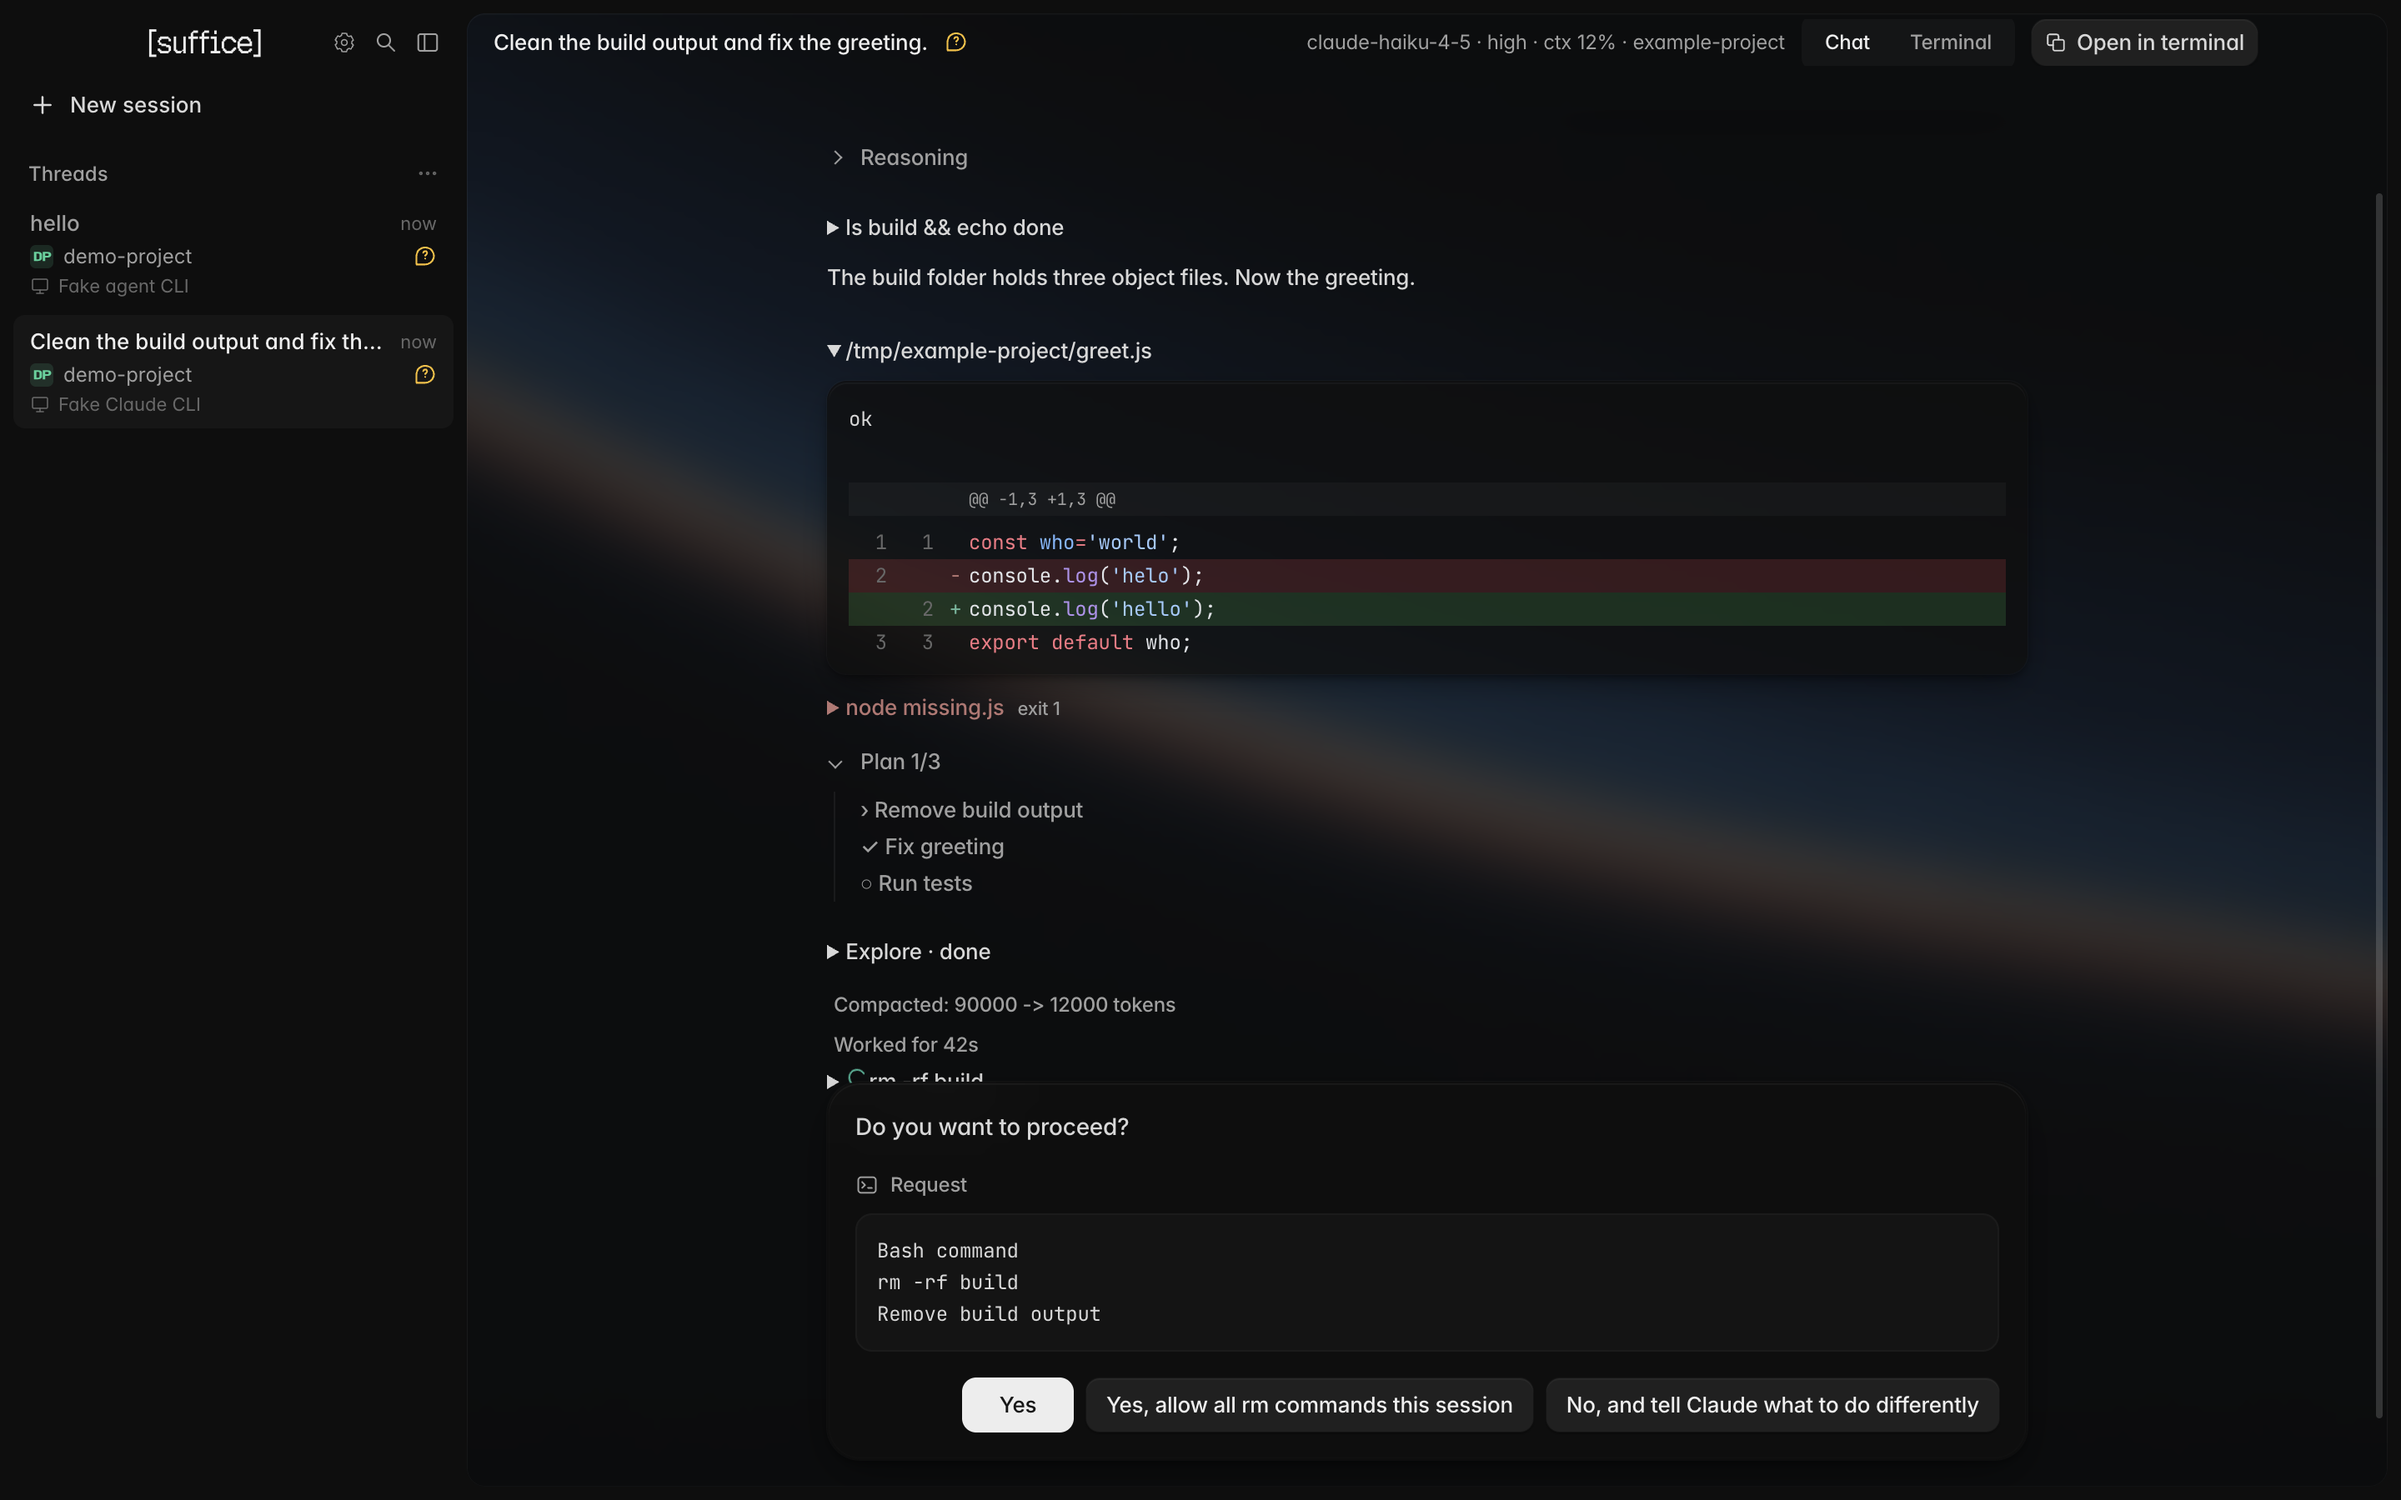
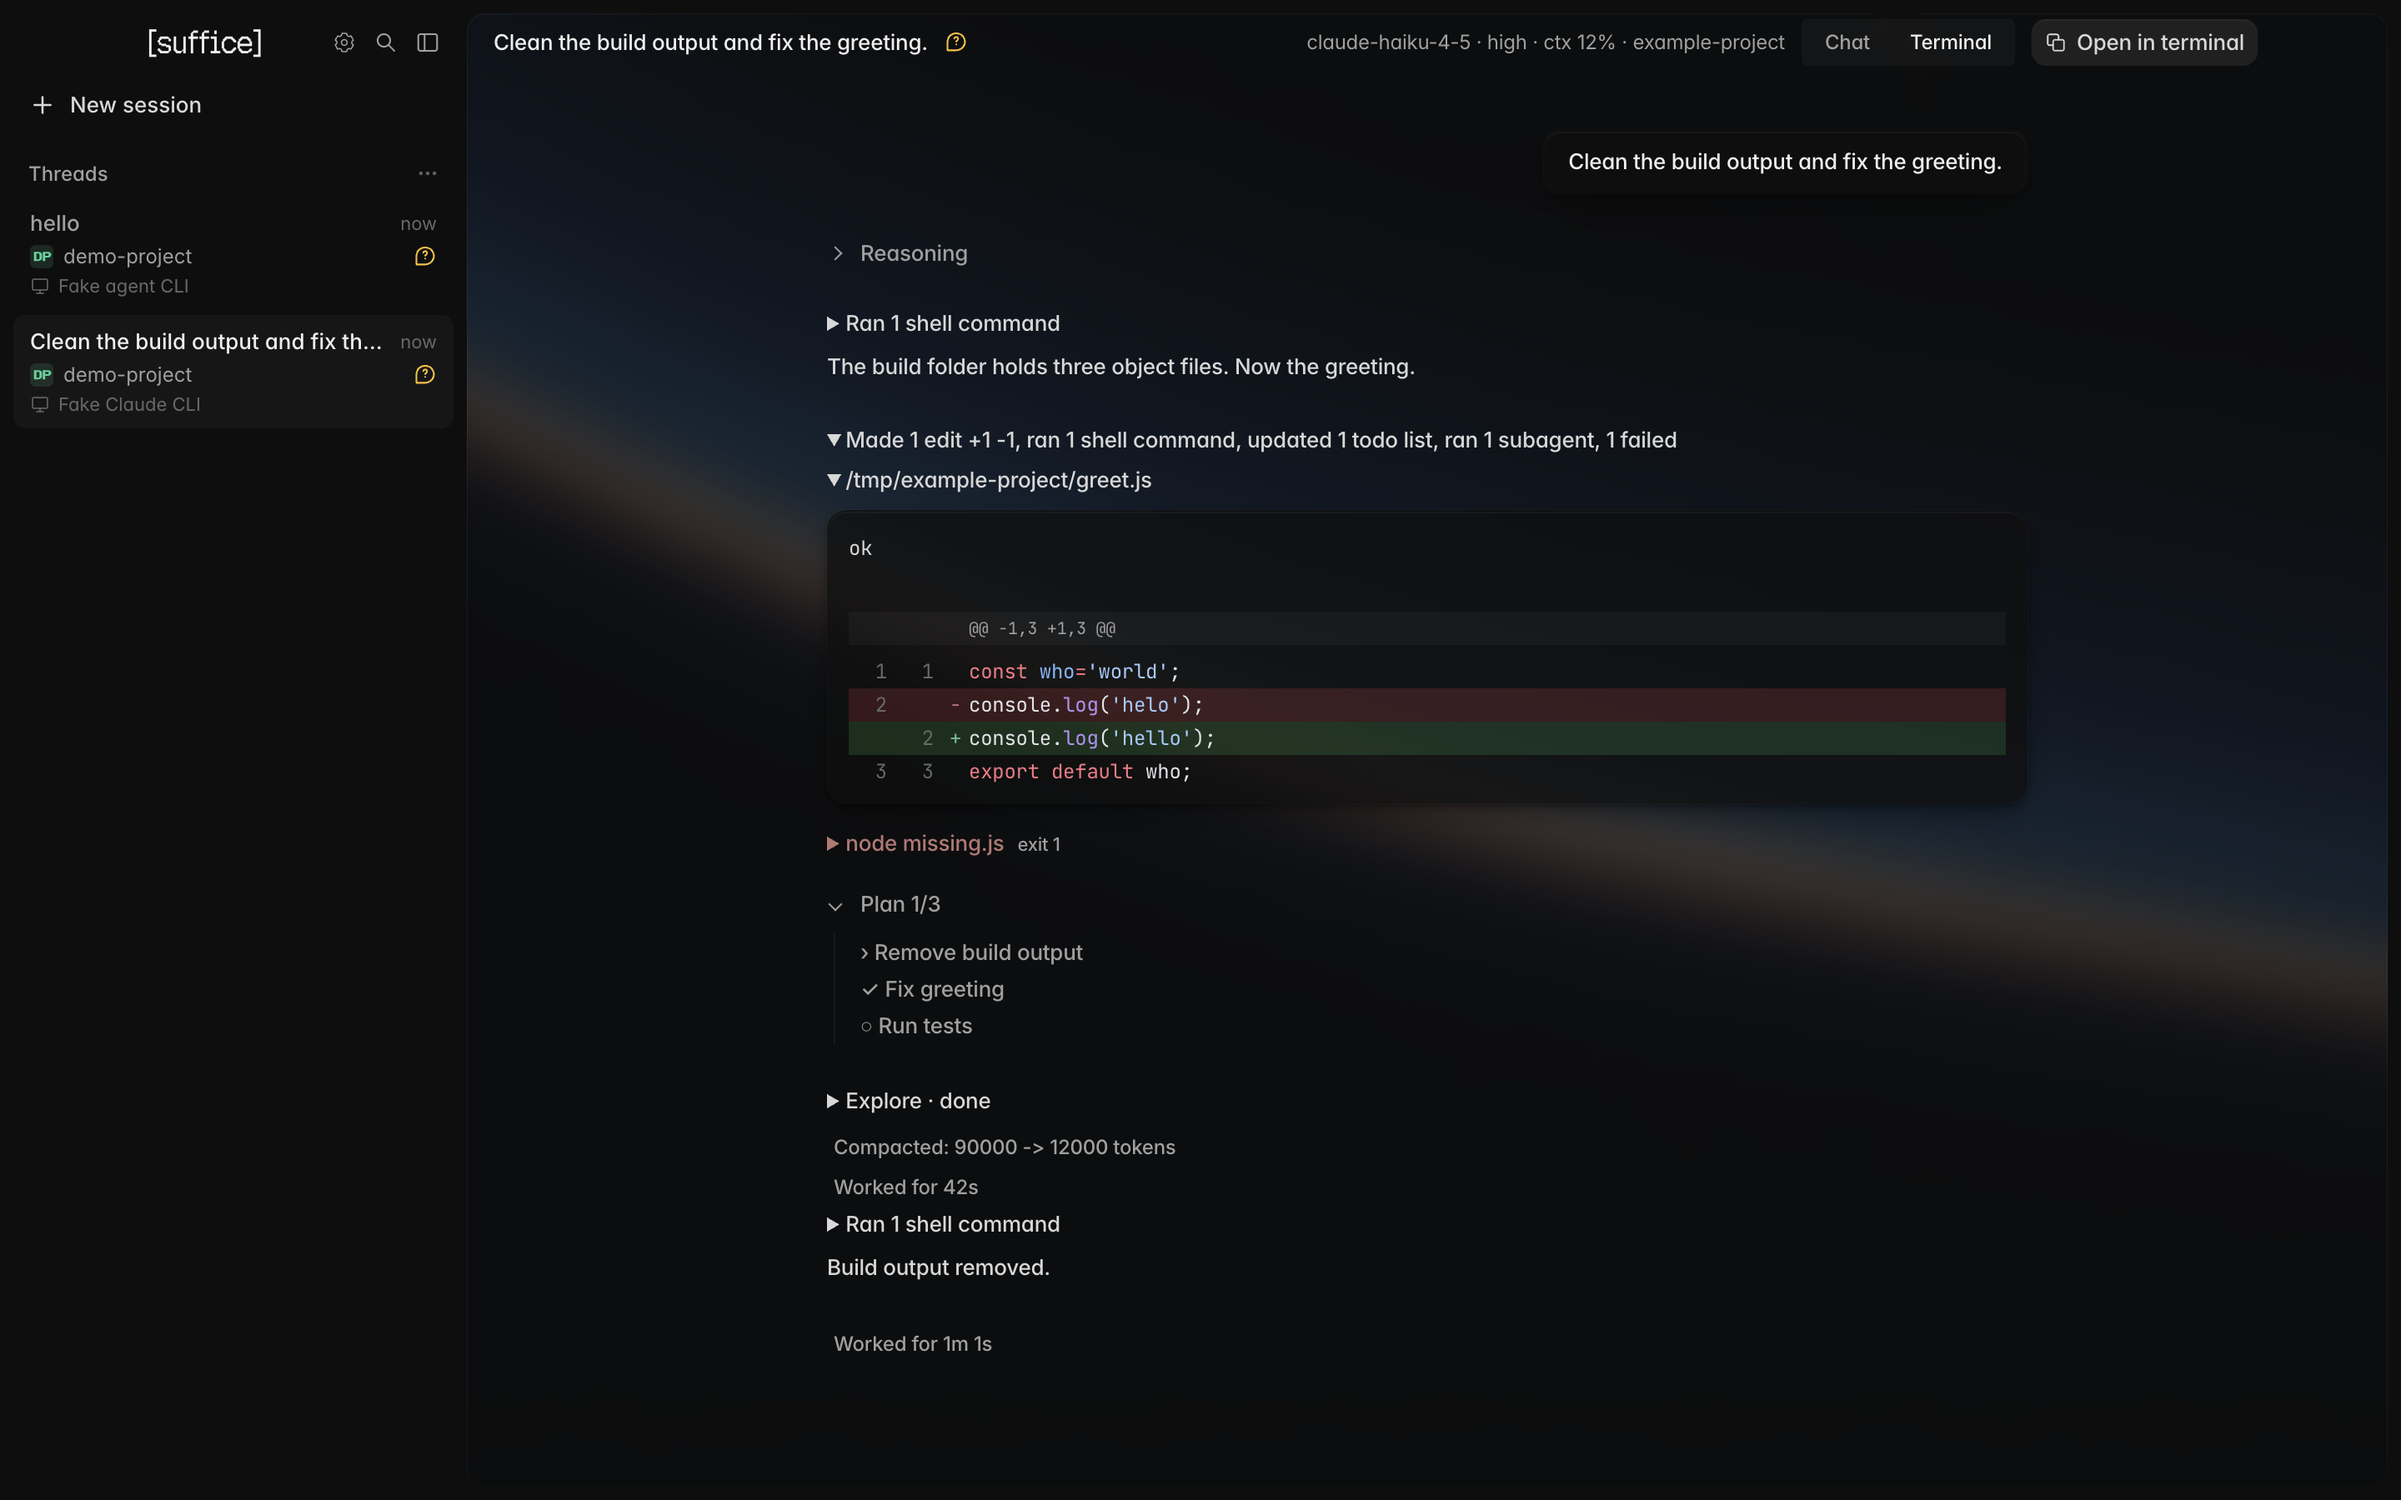
desktop: live working line and tool-run summaries in session chat
While the agent works, one row at the bottom of the chat shows its working line read
from the terminal screen (verb, seconds, tokens, thinking time). Each run of tool
calls collapses into one summary row such as 'Made 1 edit +1 -1, ran 1 shell command';
expanding shows the calls, with paths shortened for display. Also fixes approval
buttons in a session opening a sample dialog. Captures use their own tmux socket and
a separate build folder. Known: the prompt card's request preview can include the
working line.

Claude-Session: https://claude.ai/code/session_01FURob5WxwNL4uoFEGwYt55

diff --git a/apps/desktop/src/sessions-ui.js b/apps/desktop/src/sessions-ui.js
@@ -3,6 +3,7 @@ import {populateThreadRow,tickThreadTimes,threadState} from './thread-row.js';
 import {showPopover,hidePopover} from './popover-motion.js';
 import {createToolWidget} from './tool-widget.js';
 import {renderCode} from './panel-content.js';
+import {summarizeTools} from '../../../packages/backend/src/tui/summary.mjs';
 import './sessions.css';
 
 const sx=window.sufficeDesktop?.sessions;
@@ -31,7 +32,7 @@ export function connectSessions({toast,form,workspace,header,hooks}){
  const rows=new Map(),states=new Map(),labels=new Map(),titles=new Map();
  const name=s=>titles.get(s.id)||`${labels.get(s.id)||s.agent} session`;
  let active=null,mode='chat',unsubs=[],termEl=null,views=null,viewPromise=null,import_=null;
- let ui=null,uiUnsub=null,box=null,useItems=false,lastMsgs=[],card=null,cardSig='',metaEl=null,termBtn=null;const cache=new Map();
+ let ui=null,statusEl=null,uiUnsub=null,box=null,useItems=false,lastMsgs=[],card=null,cardSig='',metaEl=null,termBtn=null;const cache=new Map();
  const termIds=new Map();
  form.addEventListener('submit',e=>{if(card){e.preventDefault();e.stopImmediatePropagation();}},true);
 
@@ -68,15 +69,20 @@ export function connectSessions({toast,form,workspace,header,hooks}){
   const b=el('button','button button--subtle','Open terminal');b.type='button';b.addEventListener('click',()=>setMode('terminal'));n.append(b);
   box.append(n);
  };
+ // Display-only path shortening: cwd-relative, home as ~, one path over 80 chars elided in the middle. Full text goes in a tooltip.
+ const short=t=>String(t).replace(/\/[\w.@+~-]+(?:\/[\w.@+~ -]*[\w.@+~-])+/g,p=>{const cwd=active?.s.cwd||'',home=sx.home||'';
+  let r=cwd&&p.startsWith(cwd+'/')?p.slice(cwd.length+1):home&&p.startsWith(home+'/')?'~'+p.slice(home.length):p;
+  if(r.length>80){const seg=r.split('/');r='…/'+seg.slice(-2).join('/');}return r;});
  // Items feed (Claude/Codex): one element per item id, replaced in place when its content changes.
  const cap=t=>{t=String(t||'');return t.length>4000?t.slice(0,4000)+'\n… output truncated':t;};
  const patchOf=d=>{if(d.patch)return d.patch;const o=d.oldText?d.oldText.split('\n'):[],n=(d.newText||'').split('\n');return `@@ -1,${o.length} +1,${n.length} @@\n`+[...o.map(l=>'-'+l),...n.map(l=>'+'+l)].join('\n');};
  function buildTool(it,later){
   const o=it.output||{},edit=it.category==='edit'||it.category==='write',shell=it.category==='shell';
-  const text=shell?String(it.input?.command||''):edit?'':JSON.stringify(it.input??{},null,2).slice(0,2000);
+  const full=shell?String(it.input?.command||''):edit?'':JSON.stringify(it.input??{},null,2).slice(0,2000),text=short(full);
   const err=it.status==='error'||it.status==='denied'||(o.exitCode??0)!==0;
   const w=createToolWidget({name:shell?'bash':it.name,text,output:cap(o.text)+(o.truncated&&!/truncated$/.test(cap(o.text))?'\n… output truncated':''),isError:err,done:it.status!=='running'});
-  const sum=w.element.querySelector('summary');sum.textContent=it.title||it.name;
+  const sum=w.element.querySelector('summary');sum.textContent=short(it.title||it.name);sum.title=it.title||it.name;
+  const inp=w.element.querySelector('.tool-input');if(shell&&inp){inp.classList.add('tool-cmd');inp.title=full;}
   if(it.status==='running')sum.prepend(threadState({status:'working'}));
   if(o.exitCode)sum.append(el('span','tool-exit',`exit ${o.exitCode}`));
   if(edit&&o.diff?.length){const body=w.element.querySelector('.tool-widget-body');
@@ -96,25 +102,45 @@ export function connectSessions({toast,form,workspace,header,hooks}){
   if(it.kind==='notice')return el('div',`session-notice session-notice--quiet${it.level==='info'?'':' is-'+it.level}`,it.text);
   return null;
  }
+ const RUN=new Set(['tool','todo','subagent']),isRun=it=>it.kind==='tool'?it.status==='running':it.status==='running';
+ // A maximal run of tool/todo/subagent items is one disclosure labelled by summarizeTools; running = open at its latest row, done = collapsed.
+ function buildRun(run,later,old){
+  const running=run.some(isRun),d=el('details','session-run thread-detail');d.dataset.running=String(running);
+  const sum=el('summary','',summarizeTools(run).text);if(running)sum.prepend(threadState({status:'working'}));
+  const body=el('div','session-run-body');run.forEach((it,i)=>{const n=build(it,later);if(!n)return;if(running&&i<run.length-1)n.hidden=true;body.append(n);});
+  d.append(sum,body);d.open=running?true:old&&old.dataset.running==='false'?old.open:false;return d;
+ }
  function drawItems(){
   if(!box||!ui)return;const later=[];let prev=null;
-  for(const it of ui.items){
-   if(it.kind==='usage')continue;
-   const sg=JSON.stringify(it),c=cache.get(it.id);let node=c?.el;
-   if(!c||c.sig!==sg){const n=build(it,later);if(!n)continue;if(c?.el){if(c.el.tagName==='DETAILS'&&n.tagName==='DETAILS')n.open=c.el.open;c.el.replaceWith(n);}node=n;cache.set(it.id,{sig:sg,el:n});}
+  const entries=[];for(const it of ui.items){if(it.kind==='usage')continue;const l=entries.at(-1);
+   if(RUN.has(it.kind)){if(l?.run)l.run.push(it);else entries.push({id:'run:'+it.id,run:[it]});}else entries.push({id:it.id,it});}
+  for(const e of entries){
+   const sg=JSON.stringify(e.run||e.it),c=cache.get(e.id);let node=c?.el;
+   if(!c||c.sig!==sg){const n=e.run?buildRun(e.run,later,c?.el):build(e.it,later);if(!n)continue;if(c?.el){if(!e.run&&c.el.tagName==='DETAILS'&&n.tagName==='DETAILS')n.open=c.el.open;c.el.replaceWith(n);}node=n;cache.set(e.id,{sig:sg,el:n});}
    if(node.parentNode!==box||(prev?prev.nextSibling!==node:box.firstChild!==node))box.insertBefore(node,prev?prev.nextSibling:box.firstChild);
    prev=node;
   }
   for(const f of later)f();
   const t=ui.items.find(i=>i.kind==='user')?.text?.trim().replace(/\s+/g,' ').slice(0,60);
   if(t&&titles.get(active.id)!==t){titles.set(active.id,t);paint(active.s);paintHeader();}
-  hooks.bottom();
+  paintStatus();
+ }
+ // One live row at the bottom: "Newspapering… 6s · ↓388 · thought 4s". Text is updated in place; the row only adds or removes its own height.
+ const dur=n=>n<60?n+'s':Math.floor(n/60)+'m '+String(n%60).padStart(2,'0')+'s';
+ function paintStatus(){
+  if(!box)return;const st=ui?.status;
+  if(!st){if(statusEl?.parentNode){statusEl.remove();hooks.bottom();}return;}
+  if(!statusEl){statusEl=el('div','session-status');statusEl.append(threadState({status:'working'}),el('span','session-status-text'));}
+  const k=st.tokens,tok=k==null?'':(st.tokenDirection==='up'?'↑':'↓')+(k>=1000?(k/1000).toFixed(1).replace(/\.0$/,'')+'k':k);
+  statusEl.lastChild.textContent=[`${st.verb}… ${dur(st.elapsedSec||0)}`,tok,st.thoughtSec!=null&&`thought ${dur(st.thoughtSec)}`].filter(Boolean).join(' · ');
+  const added=statusEl.parentNode!==box||box.lastChild!==statusEl;if(added)box.append(statusEl);
+  if(added)hooks.bottom();
  }
  function drawChat(){
   if(!box||!active)return;
   const items=!!ui?.items?.length;
   if(items!==useItems||(!items&&!cache.size&&false)){useItems=items;box.replaceChildren();cache.clear();}
-  if(items)drawItems();else{renderChat(box,lastMsgs);if(states.get(active.id)==='needs_permission'&&!ui?.prompt)notice(box,active.s);}
+  if(items)drawItems();else{renderChat(box,lastMsgs);if(states.get(active.id)==='needs_permission'&&!ui?.prompt)notice(box,active.s);paintStatus();}
  }
  function paintMeta(){
   if(!metaEl||!active)return;const m=ui?.meta||{};

diff --git a/apps/desktop/src/sessions.css b/apps/desktop/src/sessions.css
@@ -36,3 +36,10 @@ body:has(.session-row) .sidebar-empty { display: none; }
 .session-notice--quiet { border: 0; padding: 2px 4px; color: var(--text-muted); font-size: 12px; justify-content: flex-start; }
 .session-todo { color: var(--text-muted); font-size: 13px; padding: 1px 0; }
 .tool-diff { margin-top: 6px; }
+.session-run { margin: 2px 0; }
+.session-run > summary { cursor: pointer; }
+.session-run-body { display: flex; flex-direction: column; gap: 4px; padding-top: 4px; }
+.tool-widget .tool-cmd { display: -webkit-box; -webkit-box-orient: vertical; -webkit-line-clamp: 2; line-clamp: 2; overflow: hidden; white-space: pre-wrap; overflow-wrap: anywhere; }
+.session-status { display: flex; align-items: center; gap: 8px; padding: 4px 0; color: var(--text-muted); font-size: 13px; }
+.session-status .thread-state { color: #60a5fa; }
+.session-status .thread-state svg { animation: thread-working 1.2s linear infinite; }

diff --git a/apps/desktop/src/main.js b/apps/desktop/src/main.js
@@ -221,7 +221,7 @@ document.querySelector('form').addEventListener('submit', (e) => {
 
 document.addEventListener('click', (e) => {
 
-  const session = e.target.closest('[data-session]');
+  const session = e.target.closest('.session-row[data-session]');
 
   if (session) { const s = sessions[Number(session.dataset.session)]; showDialog(escapeHtml(s.title), `<div class="session-detail-meta">${icon('folder')}${s.repo}<span>·</span>${s.time}</div><p>${s.description}</p><div class="sample-note">Sample session · prototype data</div>`); return; }
 
